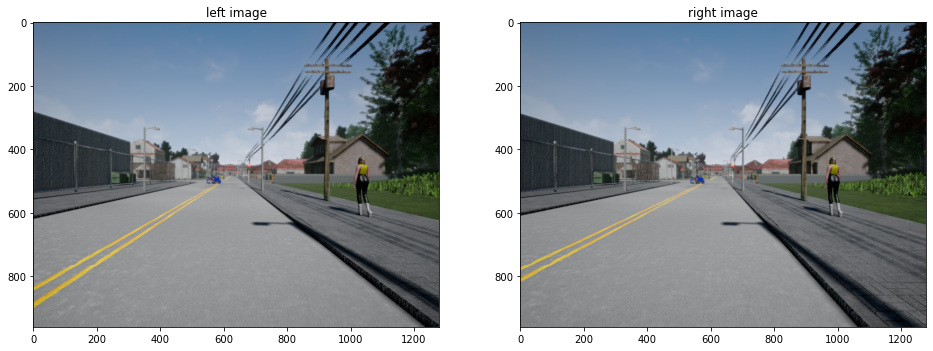
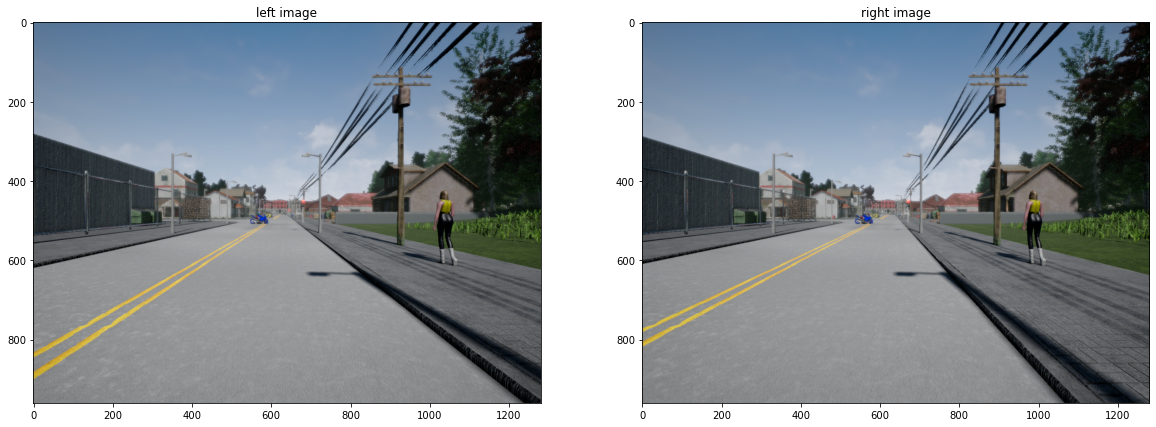
added new plot"

diff --git a/Stereo_Depth/Applying Stereo Depth to a Driving Scenario.py b/Stereo_Depth/Applying Stereo Depth to a Driving Scenario.py
@@ -112,7 +112,7 @@ img_left = files_management.read_left_image()
 img_right = files_management.read_right_image()
 
 # Use matplotlib to display the two images
-_, image_cells = plt.subplots(1, 2, figsize=(16, 16))
+_, image_cells = plt.subplots(1, 2, figsize=(20, 20))
 image_cells[0].imshow(img_left)
 image_cells[0].set_title('left image')
 image_cells[1].imshow(img_right)
